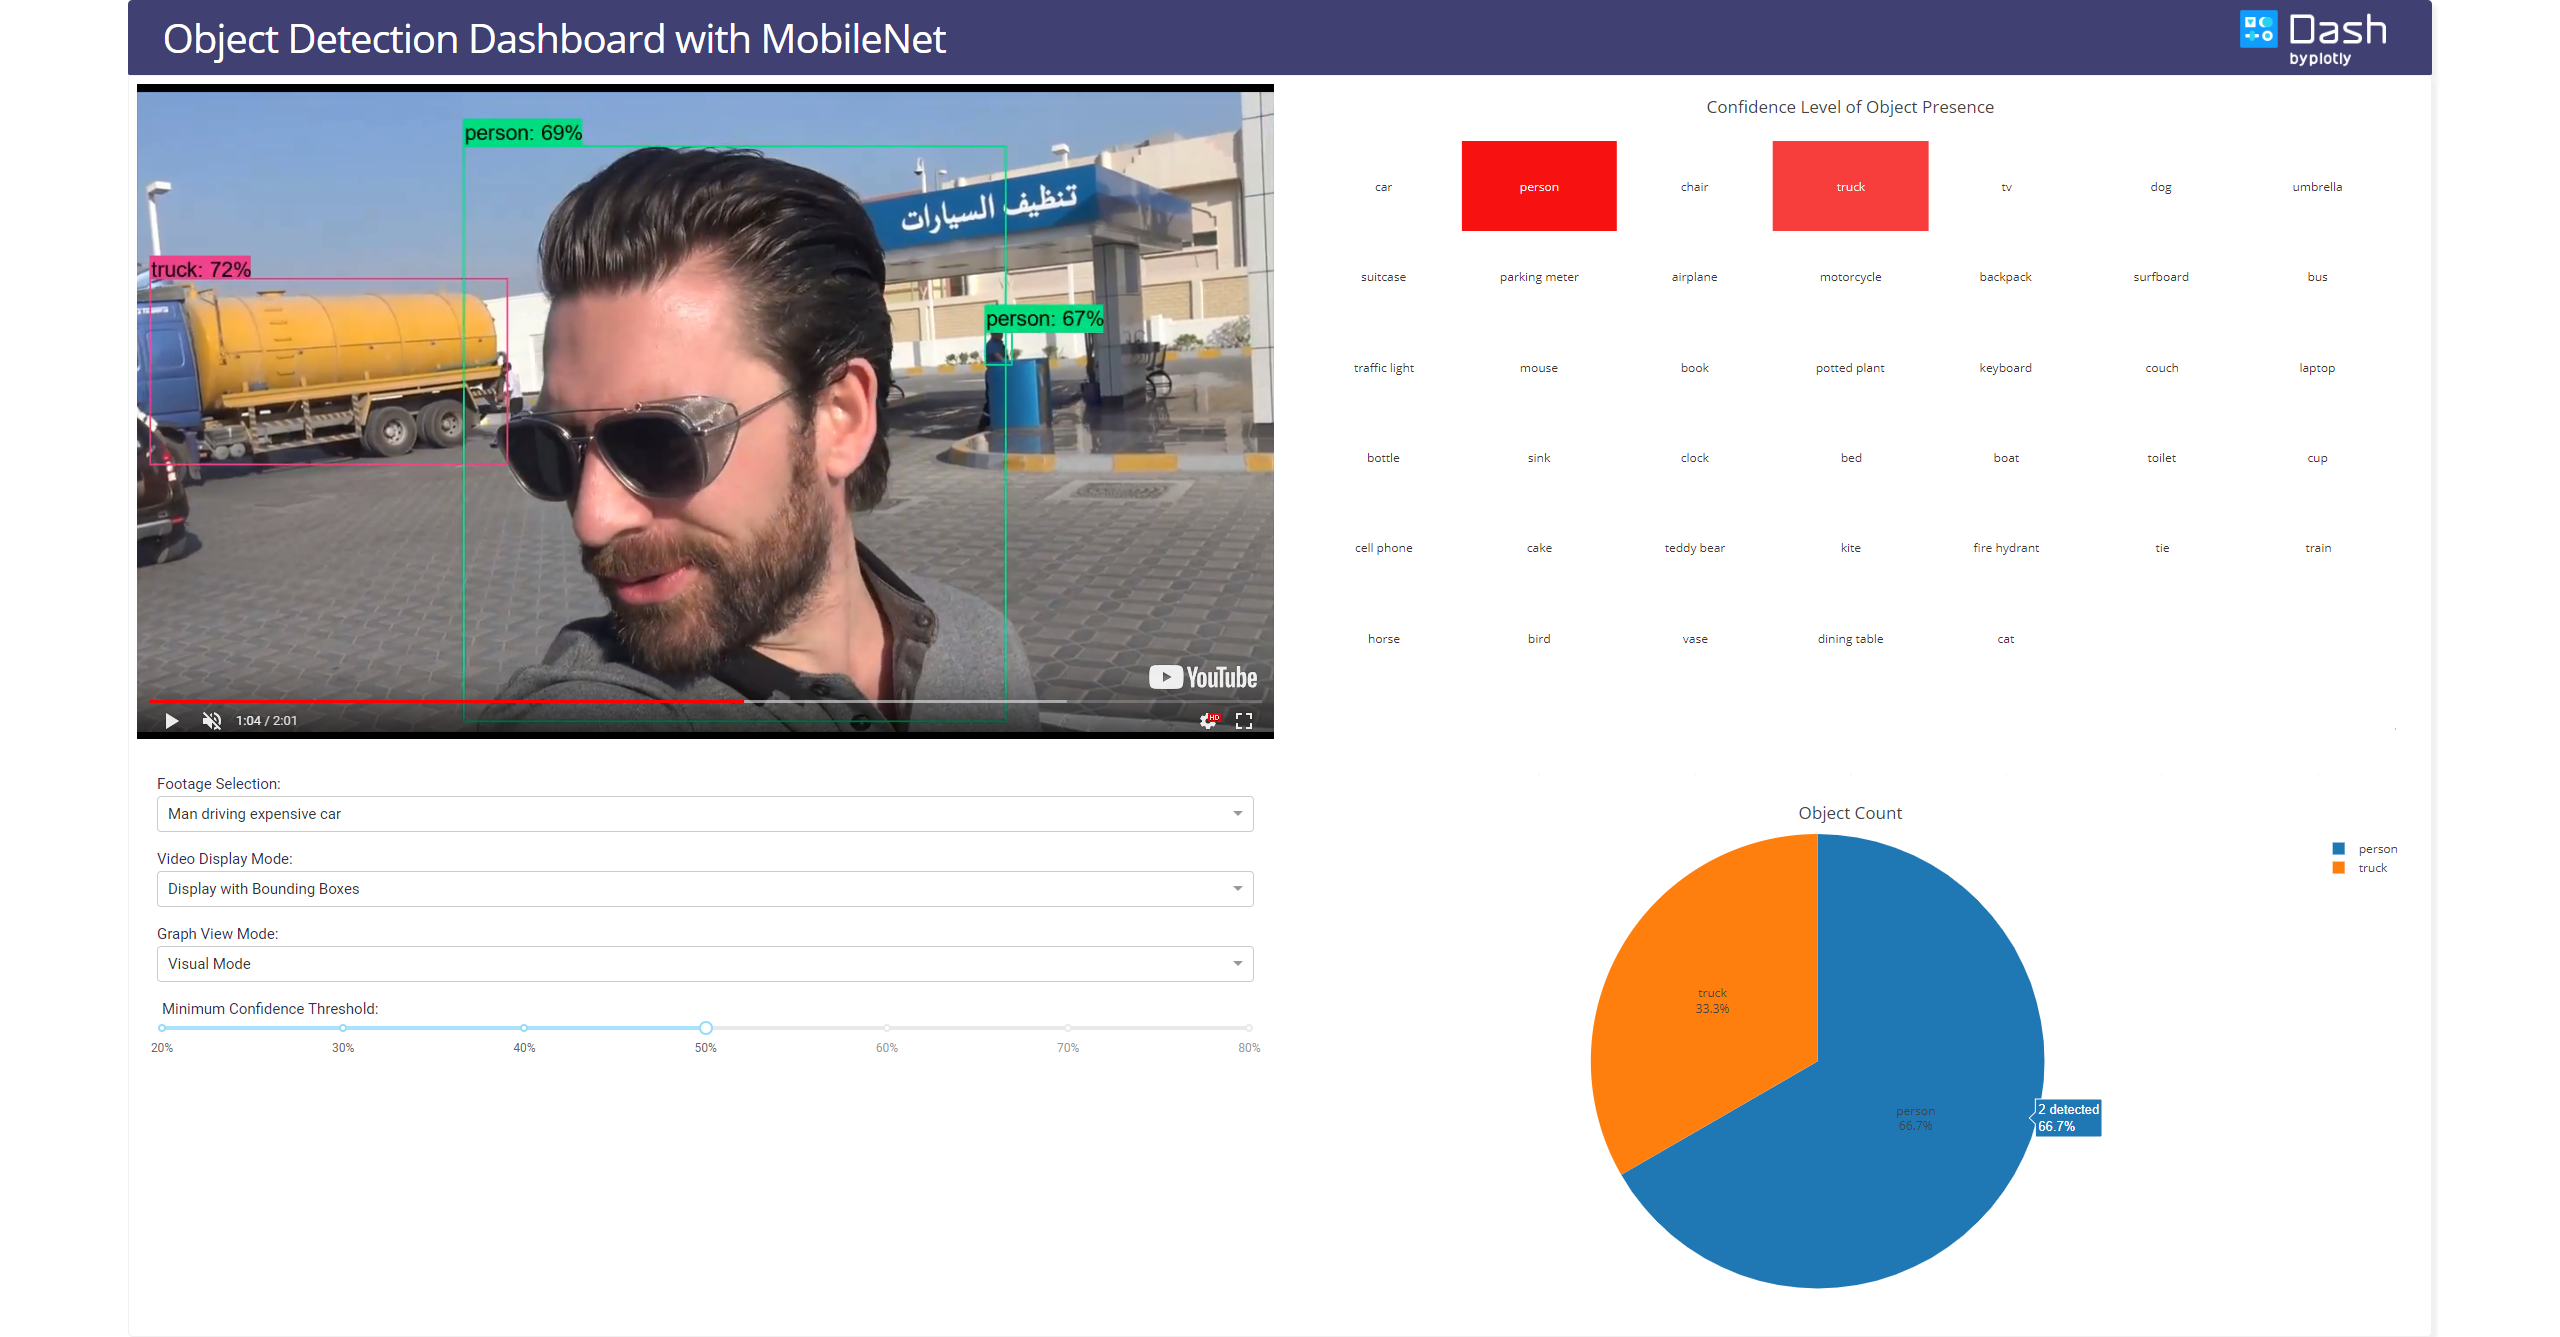
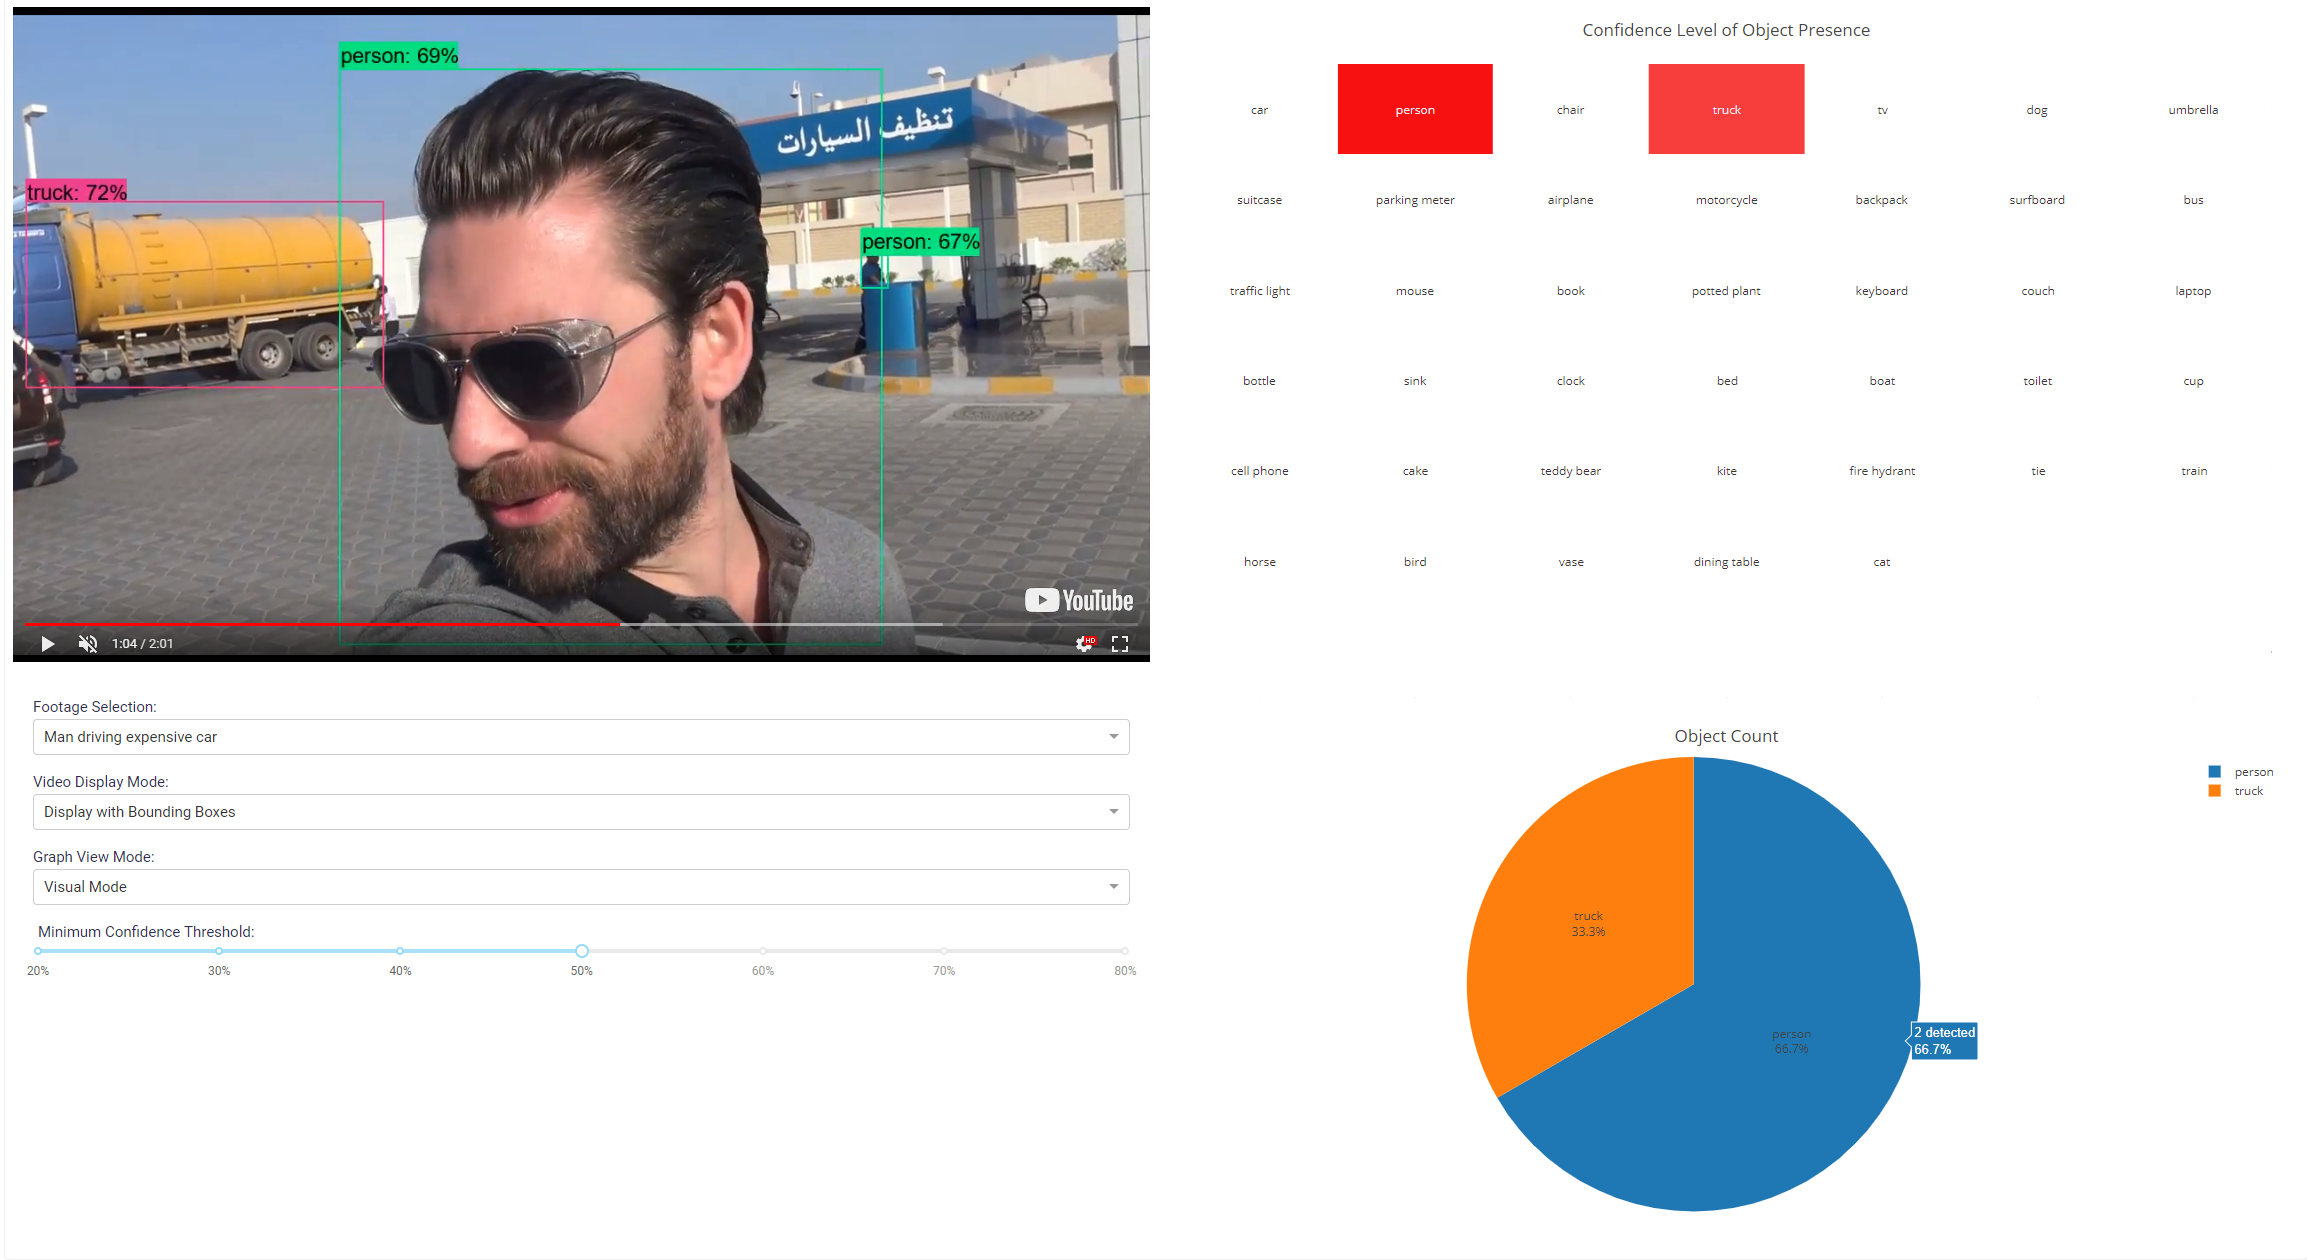
Updated Images + Gif

Changed region(s): [[0.0, 0.0, 0.9675, 0.7738], [0.6242, 0.5881, 0.8739, 0.9595], [0.9051, 0.619, 0.9363, 0.65]]

diff --git a/README.md b/README.md
@@ -19,6 +19,8 @@ The data displayed in the app are pregenerated for demo purposes. To generate th
 ### Screenshots
 The following are screenshots for the app in this repo:
 
+![Animated1](images/Animated1.gif)
+
 ![Screenshot1](images/Screenshot1.png)
 
 ![Screenshot2](images/Screenshot2.png)
